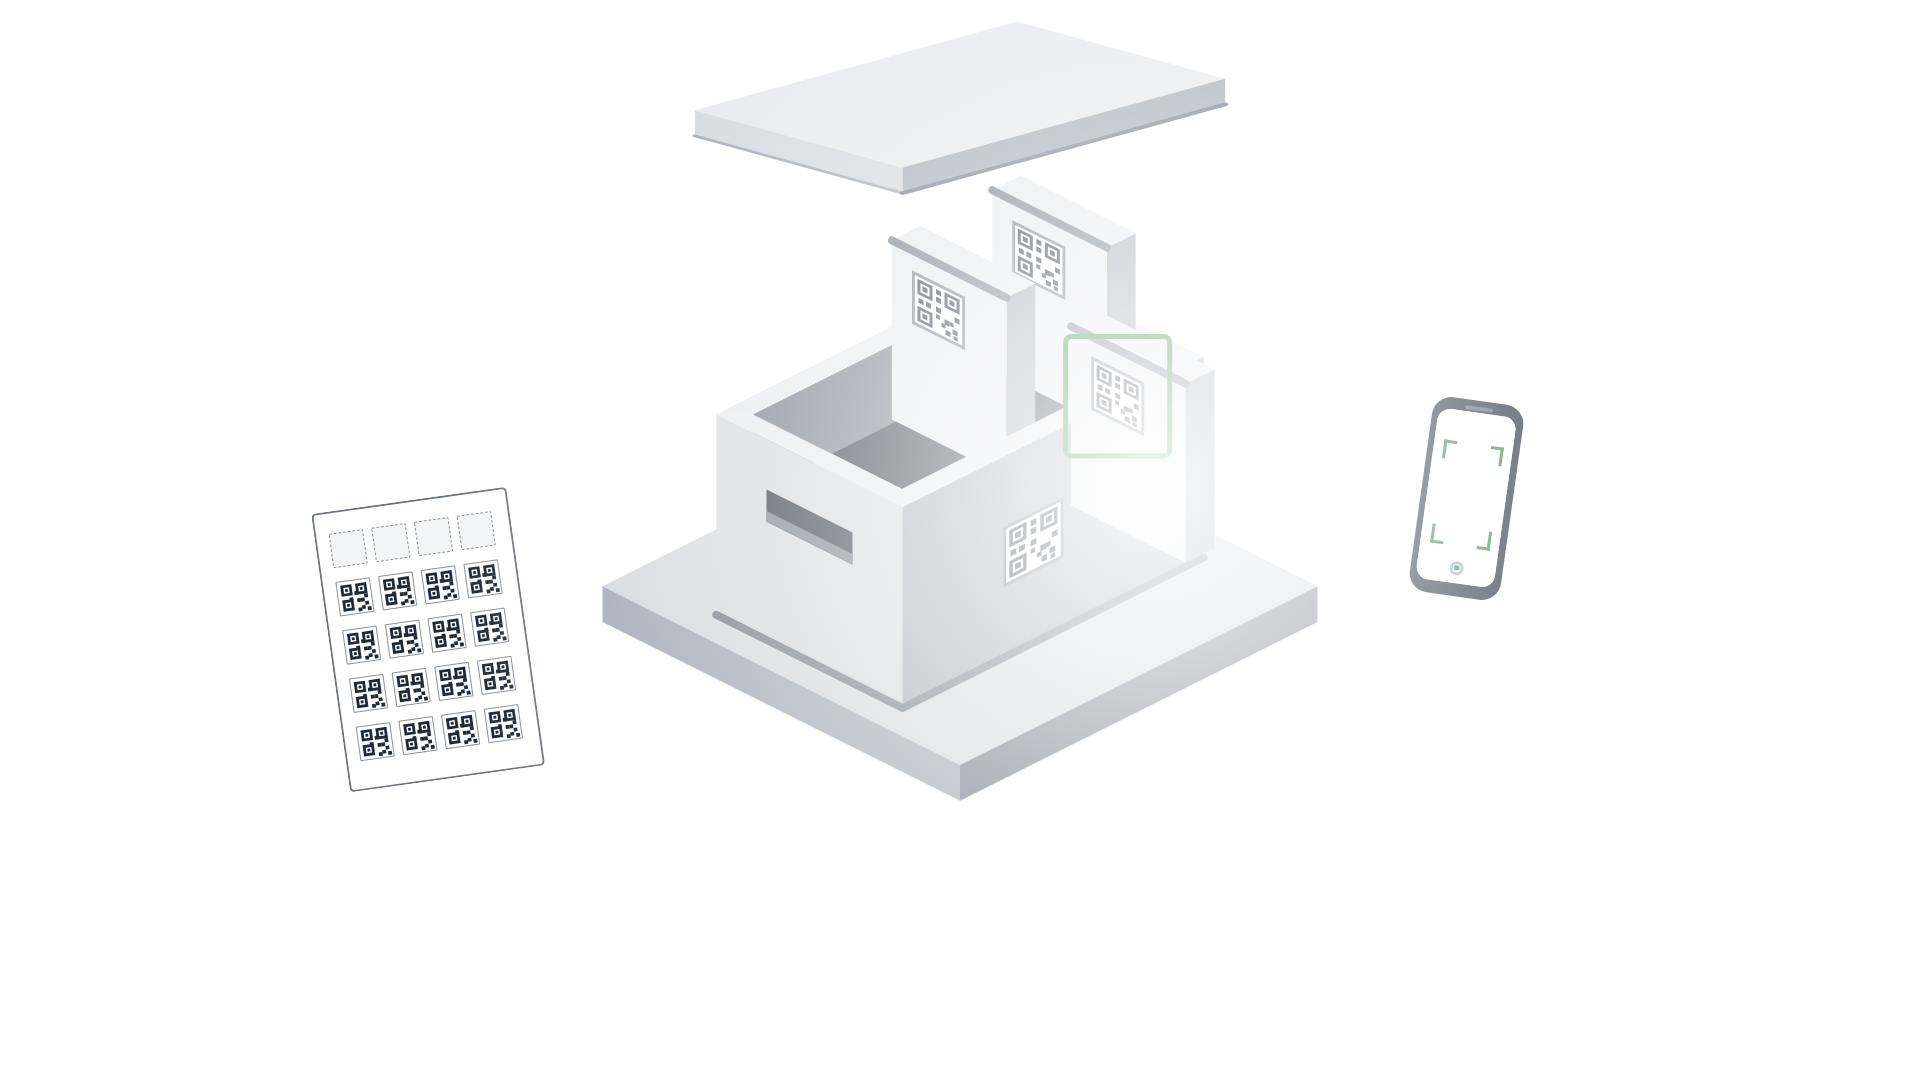
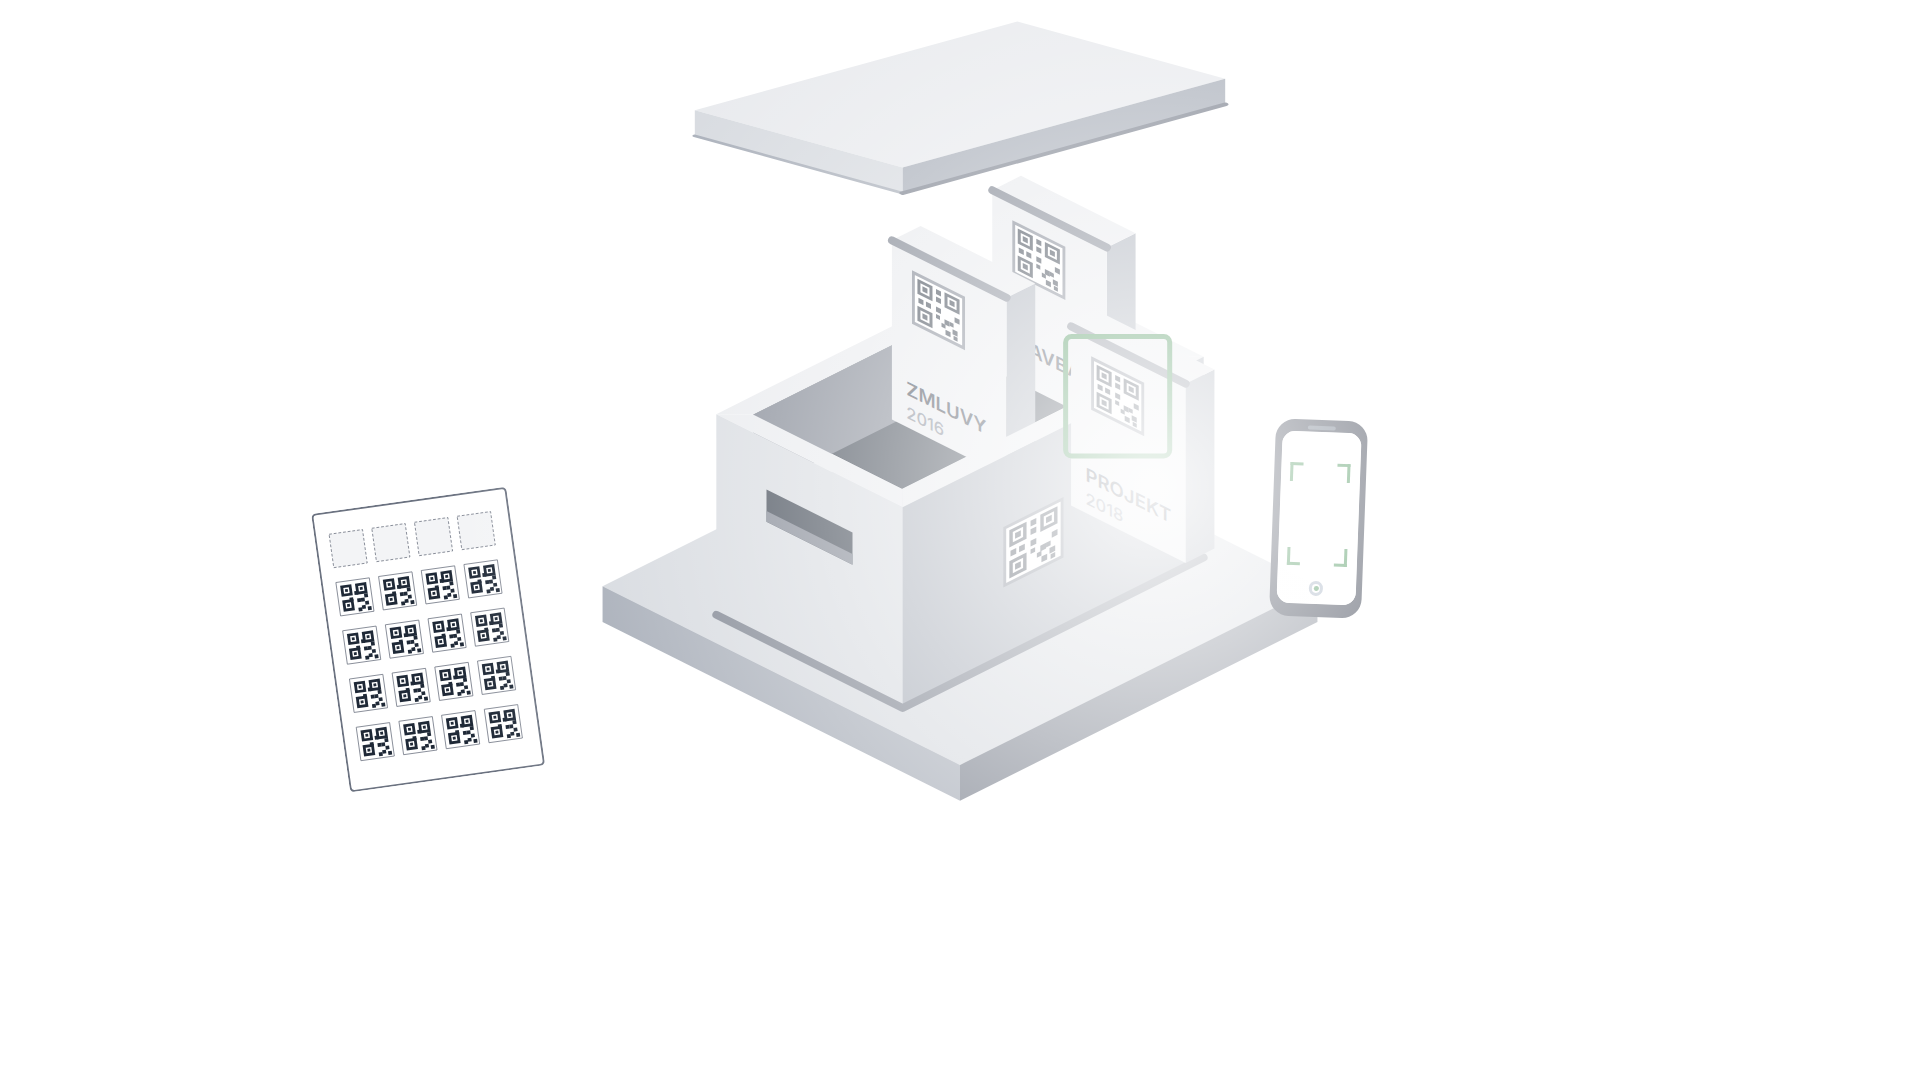
C5: štítky s textom na zložkách, mobil sa priblíži k vytiahnutej zložke, kamera nájde pred strihom do reality
Claude-Session: https://claude.ai/code/session_0174g5XfE49UzAEjnWwaQFuK

Changed region(s): [[0.6562, 0.3667, 0.7812, 0.5806], [0.75, 0.3667, 0.8125, 0.5194], [0.4688, 0.3667, 0.5, 0.3972]]

diff --git a/video/src/scenes/C5_Teren.tsx b/video/src/scenes/C5_Teren.tsx
@@ -4,6 +4,7 @@ import { Scene, useCaptions } from '../components/Scene';
 import { Caption } from '../components/Text';
 import { ArchiveBox, archiveBoxPxPerCm } from '../components/ArchiveBox';
 import { PhoneFrame } from '../components/Device';
+import { Camera } from '../lib/camera';
 import { pop, settle, tween } from '../lib/anim';
 import { captions } from '../copy/sk';
 import { BRAND, CM, INK, ISO, SAFE } from '../theme';
@@ -16,8 +17,9 @@ import { BRAND, CM, INK, ISO, SAFE } from '../theme';
  * ms: 300 zatvorena krabica · 900 harok · 1500-2000 nalepka z harku na
  * krabicu · 2400 veko + zlozky · 3000/3400/3800 nalepky na zlozky (dolet
  * 3500/3900/4300) · 4600 predna zlozka sa vytiahne · 4900 mobil · 5400 ramik
- * na stitok zlozky · 5500 blesk · 6000 ID zlozky · 7600-9300 najazd = footage
- * (fotenie stitku cez appku).
+ * na stitok zlozky · 5200 mobil sa priblizi · 5500 blesk · 6000 ID zlozky ·
+ * 5800-7400 kamera najde na zlozku + mobil · 7600-9300 najazd do displeja =
+ * strih do reality (fotenie stitku cez appku).
  */
 const BOX = 860;
 const PX = archiveBoxPxPerCm(BOX); // ~9.4 px/cm
@@ -52,6 +54,8 @@ export const C5_Teren: React.FC = () => {
     pull,
   };
   const phone = settle(frame, 4900);
+  const approach = tw(5200, 500); // mobil sa priblizi k vytiahnutej zlozke
+  const PHONE_NOW = { ...PHONE_AT, x: PHONE_AT.x - 150 * approach, y: PHONE_AT.y + 20 * approach };
   const frameBox = tw(5400, 260);
   const flash = tw(5500, 120) * (1 - tw(5620, 400));
   const idT = pop(frame, 6000);
@@ -72,6 +76,7 @@ export const C5_Teren: React.FC = () => {
 
   return (
     <Scene mode="light">
+      <Camera keys={[{ ms: 5800, x: 0, y: 0, scale: 1 }, { ms: 7400, x: 1200 - 960, y: 0, scale: 1.4 }]}>
       <div style={{ position: 'absolute', inset: 0, opacity: others }}>
         {/* harok nalepiek A4: 4 x 5 bielych QR */}
         <div style={{ position: 'absolute', left: 330 + (1 - sheet) * -260, top: SAFE.illoBottom - SHEET.h - 20, opacity: sheet, transform: 'rotate(-8deg)' }}>
@@ -201,7 +206,7 @@ export const C5_Teren: React.FC = () => {
 
       {/* mobil - ciel najazdu */}
       <div style={{ position: 'absolute', inset: 0, opacity: phone, transform: `translateX(${(1 - phone) * 260 * (1 - fill)}px)` }}>
-        <PhoneFrame at={PHONE_AT} fill={fill} rotate={8}>
+        <PhoneFrame at={PHONE_NOW} fill={fill} rotate={8 - 6 * approach}>
           <div style={{ position: 'absolute', inset: 0, background: '#fff' }}>
             <div style={{ position: 'absolute', inset: '18% 12% 22% 12%', opacity: (0.5 + 0.5 * frameBox) * (1 - fill) }}>
               {[
@@ -236,6 +241,7 @@ export const C5_Teren: React.FC = () => {
       </div>
 
       <div style={{ position: 'absolute', inset: 0, background: 'radial-gradient(circle at 60% 45%, rgba(255,255,255,0.95) 0%, rgba(255,255,255,0) 55%)', opacity: flash, pointerEvents: 'none' }} />
+      </Camera>
 
       {showCap ? <Caption text={captions.C5} t={settle(frame, 6200)} out={tw(7300, 300)} y={SAFE.captionY} /> : null}
     </Scene>

diff --git a/video/src/components/ArchiveBox.tsx b/video/src/components/ArchiveBox.tsx
@@ -100,6 +100,11 @@ export const ArchiveBox: React.FC<{ state: ArchiveBoxState; size?: number; accen
           <path fill="#e5e7eb" d="M73 165.5L105 181.5L105 131.5L73 115.5Z" />
           <path fill="#e5e7eb" d="M73 115.5L105 131.5L113 127.5L81 111.5Z" />
           <path fill="none" stroke="#6b7280" strokeWidth="2.2" strokeLinecap="round" d="M73 115.5L105 131.5" />
+          {/* stitok zlozky (text na prednej ploche, pod QR) */}
+          <g transform={`matrix(1 0.5 0 1 73 115.5)`}>
+            <text x={4} y={41} fontFamily="Inter, sans-serif" fontWeight={700} fontSize={5.2} fill="#1f2937">PROJEKT</text>
+            <text x={4} y={47.5} fontFamily="Inter, sans-serif" fontWeight={500} fontSize={4.6} fill="#6b7280">2018</text>
+          </g>
           {showQr ? (
             <Qr
               s={qr[0]}
@@ -139,6 +144,11 @@ export const ArchiveBox: React.FC<{ state: ArchiveBoxState; size?: number; accen
           <path fill="#e5e7eb" d="M129 137.5L161 153.5L161 103.5L129 87.5Z" />
           <path fill="#e5e7eb" d="M129 87.5L161 103.5L169 99.5L137 83.5Z" />
           <path fill="none" stroke="#6b7280" strokeWidth="2.2" strokeLinecap="round" d="M129 87.5L161 103.5" />
+          {/* stitok zlozky (text na prednej ploche, pod QR) */}
+          <g transform={`matrix(1 0.5 0 1 129 87.5)`}>
+            <text x={4} y={41} fontFamily="Inter, sans-serif" fontWeight={700} fontSize={5.2} fill="#1f2937">STAVBA</text>
+            <text x={4} y={47.5} fontFamily="Inter, sans-serif" fontWeight={500} fontSize={4.6} fill="#6b7280">B2</text>
+          </g>
           {showQr ? (
             <Qr
               s={qr[2]}
@@ -162,6 +172,11 @@ export const ArchiveBox: React.FC<{ state: ArchiveBoxState; size?: number; accen
           <path fill="#e5e7eb" d="M101 151.5L133 167.5L133 117.5L101 101.5Z" />
           <path fill="#e5e7eb" d="M101 101.5L133 117.5L141 113.5L109 97.5Z" />
           <path fill="none" stroke="#6b7280" strokeWidth="2.2" strokeLinecap="round" d="M101 101.5L133 117.5" />
+          {/* stitok zlozky (text na prednej ploche, pod QR) */}
+          <g transform={`matrix(1 0.5 0 1 101 101.5)`}>
+            <text x={4} y={41} fontFamily="Inter, sans-serif" fontWeight={700} fontSize={5.2} fill="#1f2937">ZMLUVY</text>
+            <text x={4} y={47.5} fontFamily="Inter, sans-serif" fontWeight={500} fontSize={4.6} fill="#6b7280">2016</text>
+          </g>
           {showQr ? (
             <Qr
               s={qr[1]}

diff --git a/video/STORYBOARD.md b/video/STORYBOARD.md
@@ -1,4 +1,4 @@
-# Storyboard – Assetin Archives (kolo 14)
+# Storyboard – Assetin Archives (kolo 15)
 
 Stav: ☐ still na schválenie · ☑ still schválený · ▶ animácia hotová · 🎞 finálne MP4
 
@@ -15,7 +15,7 @@ strihový bod pre footage; náhľad Full má tvrdé strihy. Titulky v obraze sú
 | C2-Kancelaria | Skriňa pri stole | navy | Zelený panáčik príde ku skrini (stolička pred stolom), otvorí krídlo (otáča sa okolo pántu), vnútri šanóny so štítkami, rolky, listy; hľadá („?“ nad hlavou sa jemne vznášajú), vyhadzuje veci – šanón so štítkom, rolka a papiere vyletia oblúkom a dopadnú pred skriňou | 3 s „Dokumentáciu máte. Nikto ju nevie nájsť.“ | 8 s | ☐ ▶ |
 | C3-Sklad | Sklad → regál | navy | Zelená postavička klučkuje uličkou (cesta pod objektmi) a zastaví pred stredným regálom, dva „?“; kamera nájde na jeho hornú policu s dvoma krabicami (regál bez vrchnej dosky, vidno do krabíc), sklad vybledne; prvá krabica: veko sa odklopí, vidno dno a zložky vnútri, zložky sa postupne vyberú a vrátia (pri prvej zložke vyletí bublinka „?“ a zanikne), veko dole; to isté druhá; nič sa nenašlo, väčší „?“ | 4 s „V sklade to nie je lepšie.“ · 11,5 s „Je to niekde tam.“ | 14 s | ☐ ▶ |
 | C4-Cena | 2× | navy | Začína rovnakým regálom ako koniec C3; regál sa odsunie doľava, vedľa neho veľký „?“, vedľa hodiny rovnakej veľkosti s točiacou sa ručičkou (hľadanie trvá), šípka k výkresu s pečiatkou (rýchlejšie spraviť nanovo); veľké cenovky pod regálom a výkresom; „2×“ dole v strede | 5,8 s „Zaplatené dvakrát za tú istú dokumentáciu.“ | 9 s | ☐ ▶ |
-| C5-Teren →📹 | V sklade | biela | Zatvorená krabica, priletí hárok nálepiek A4, z neho odletí QR na krabicu; veko sa otvorí, zložky vyjdú a z hárku priletia QR na každú zložku; predná zložka sa vytiahne z krabice, mobil sa zameria na jej štítok, blesk, ID ZL_12; nájazd do displeja → biely frame = footage fotenia štítku | 5 s „Nalepiť QR, odfotiť. Celá práca v teréne.“ | 10 s | ☐ ▶ |
+| C5-Teren →📹 | V sklade | biela | Zatvorená krabica, priletí hárok nálepiek A4, z neho odletí QR na krabicu; veko sa otvorí, zložky vyjdú a z hárku priletia QR na každú zložku; zložky majú štítky s textom; predná sa vytiahne z krabice, mobil sa k nej priblíži a zameria na štítok, blesk, ID ZL_12; kamera nájde na zložku s mobilom a potom nájazd do displeja → biely frame = strih do reality (footage fotenia štítku) | 5 s „Nalepiť QR, odfotiť. Celá práca v teréne.“ | 10 s | ☐ ▶ |
 | C6-Spracovanie →📹 (?) | Fotka → aplikácia | biela | Bez zmeny; možno vypadne a footage pôjde rovno za C5 | 3 s „Text z fotky rozpozná a navrhne údaje.“ | 7 s | ☐ ▶ |
 | C7-Hierarchia →📹 | Hierarchia + sken | biela | Začína tou istou krabicou ako C5 (KR_01), kamera sa oddiali, vedľa sa objavia dve rovnaké krabice s medzerou a KR_01 sa do nej zaradí; nad ňou vyrastie prázdna polica (2 rady), pod ňou zložky a dokumenty; mobil naskenuje krabicu, vetva sa zvýrazní zelenou čiarou; kamera nájde späť na policu, krabice sa do nej poukladajú (všetky s menším QR); mobil vľavo hľadá a nájde KR_01 – tá krabica sa zvýrazní (obrys, značka), ostatné stmavnú; strom vybledne, mobil nájde na celý frame → footage | 3 s „Každá položka má svoje miesto.“ | 12 s | ☐ ▶ |
 | C8-Pilot | Jedna krabica | biela | Bez zmeny (upraví sa neskôr) | 2 s „Začneme jednou krabicou.“ | 7 s | ☐ ▶ |
@@ -45,7 +45,7 @@ S04-Pokusy (Excel a skener), S10-Nasadenie (U nás / U vás) vo Folder „Option
 - kolo 1: „vyzerá ako prezentácia, priveľa textu, nie je miesto na footage“ → kolo 2.
 - kolo 2: „mierka ikon nesedí, chýba kancelária, texty sa prekrývajú s ikonami, simulácia UI je zbytočná (príde footage), zelené QR, presahy medzi scénami“ → kolo 3 (tento stav).
 - kolo 3 + oprava QR/kancelárie: schválené → Fáza 2 (finálne MP4).
-- kolo 4 až 14 (pripomienky z review stránky, viď FEEDBACK.md): zapracované; nové MP4 na review stránke.
+- kolo 4 až 15 (pripomienky z review stránky, viď FEEDBACK.md): zapracované; nové MP4 na review stránke.
 
 ## Review stránka
 

diff --git a/video/FEEDBACK.md b/video/FEEDBACK.md
@@ -91,3 +91,9 @@
 | Klip | Pripomienka (skrátene) | Riešenie |
 |---|---|---|
 | C5 Terén | Zvážiť: z krabice vybrať jednu zložku, namieriť na ňu mobil a až tam nadviazať footage fotenia štítku cez appku. | Áno – po nalepení QR sa predná zložka vytiahne z krabice (doprava, pred krabicu), mobil priletí a zelený rámik „odfotené“ sa zamkne na jej štítok, blesk, ID zložky ZL_12; nájazd do displeja = strih na footage fotenia štítku. `ArchiveBox` má nový prop `pull`. |
+
+## Kolo 15 (21. 9. 2026, 08:49)
+
+| Klip | Pripomienka (skrátene) | Riešenie |
+|---|---|---|
+| C5 Terén | Na zložkách má byť vidieť text; po vytiahnutí má mobil namieriť na zložku, záber, a potom strih do reality. | Každá zložka má na prednej ploche štítok s textom (PROJEKT 2018, ZMLUVY 2016, STAVBA B2); po vytiahnutí sa mobil priblíži k zložke, rámik sa zamkne na jej štítok, blesk, ID; kamera nájde na zložku s mobilom (5,8–7,4 s) a potom nájazd do displeja = strih do reality. |
